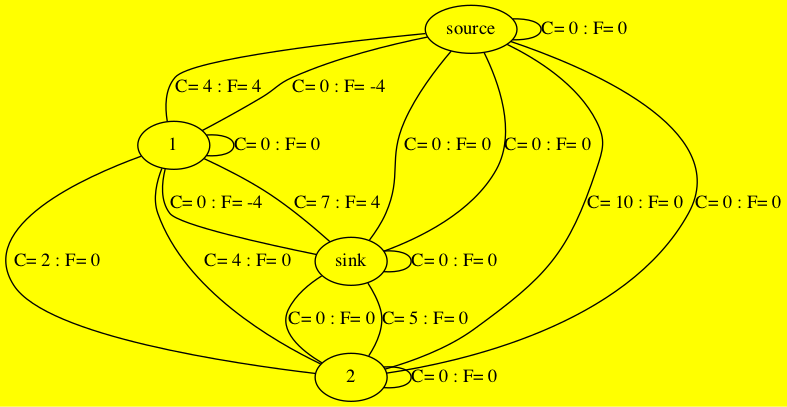
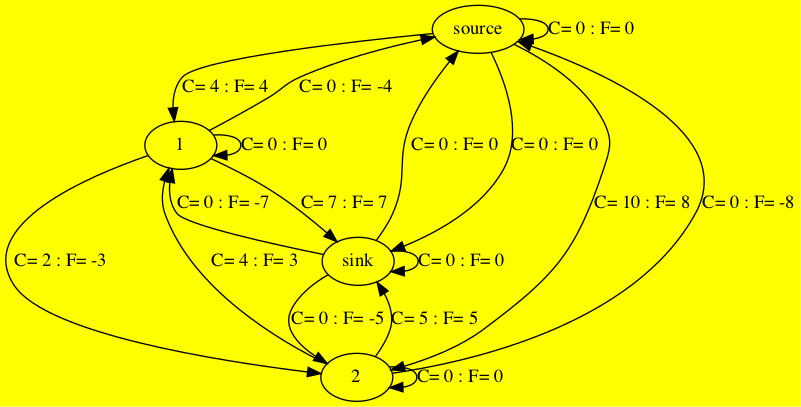
try2

diff --git a/pythons/Edmond_Karp_Vish.py b/pythons/Edmond_Karp_Vish.py
@@ -19,7 +19,7 @@ from PIL import Image, ImageTk
 #     return
 def makeGraph(C, F, s, t):
     n = len(C)  
-    graph = pydot.Dot("my_graph", graph_type="graph", bgcolor="yellow")
+    graph = pydot.Dot("my_graph", graph_type="digraph", bgcolor="yellow")
 
     # Add nodes
     for i in range(n):
@@ -36,6 +36,7 @@ def makeGraph(C, F, s, t):
     
 
     graph.write_png('output.png')
+    input("Press any key...")
     # global tklc
     # tklc.config(image='')
     

diff --git a/pythons/Edmond_Karp.py b/pythons/Edmond_Karp.py
@@ -2,13 +2,13 @@
 import tkinter as Tkinter
 import Edmond_Karp_Vish
 
-root = Tkinter.Tk()
-frame = Tkinter.Frame(root)
+# root = Tkinter.Tk()
+# frame = Tkinter.Frame(root)
 
 def max_flow(C, s, t):
         n = len(C) # C is the capacity matrix
         F = [[0] * n for i in range(n)]
-        # Edmond_Karp_Vish.makeGraph(C, F, s, t)
+        Edmond_Karp_Vish.makeGraph(C, F, s, t)
         path = bfs(C, F, s, t)
         print (path)
         while path != None:
